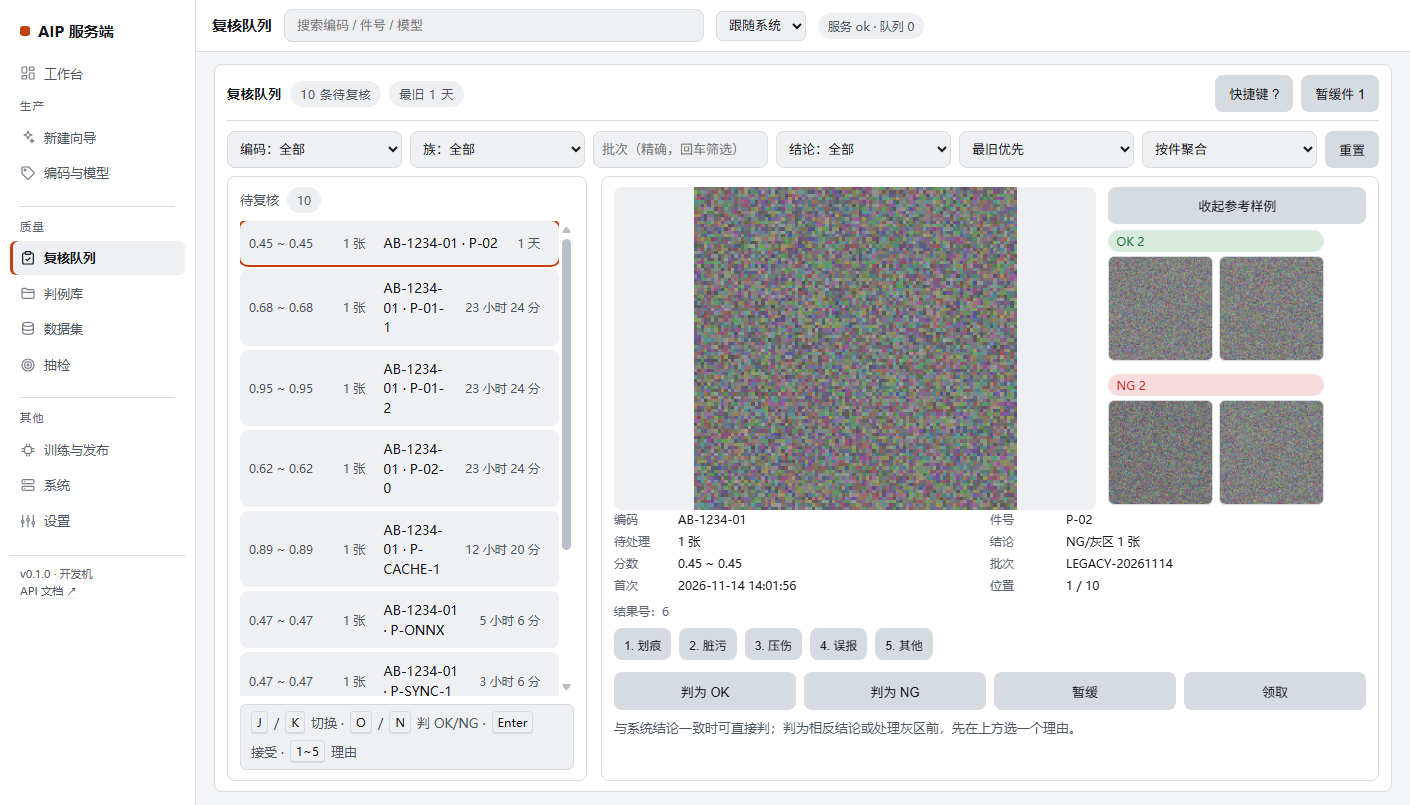
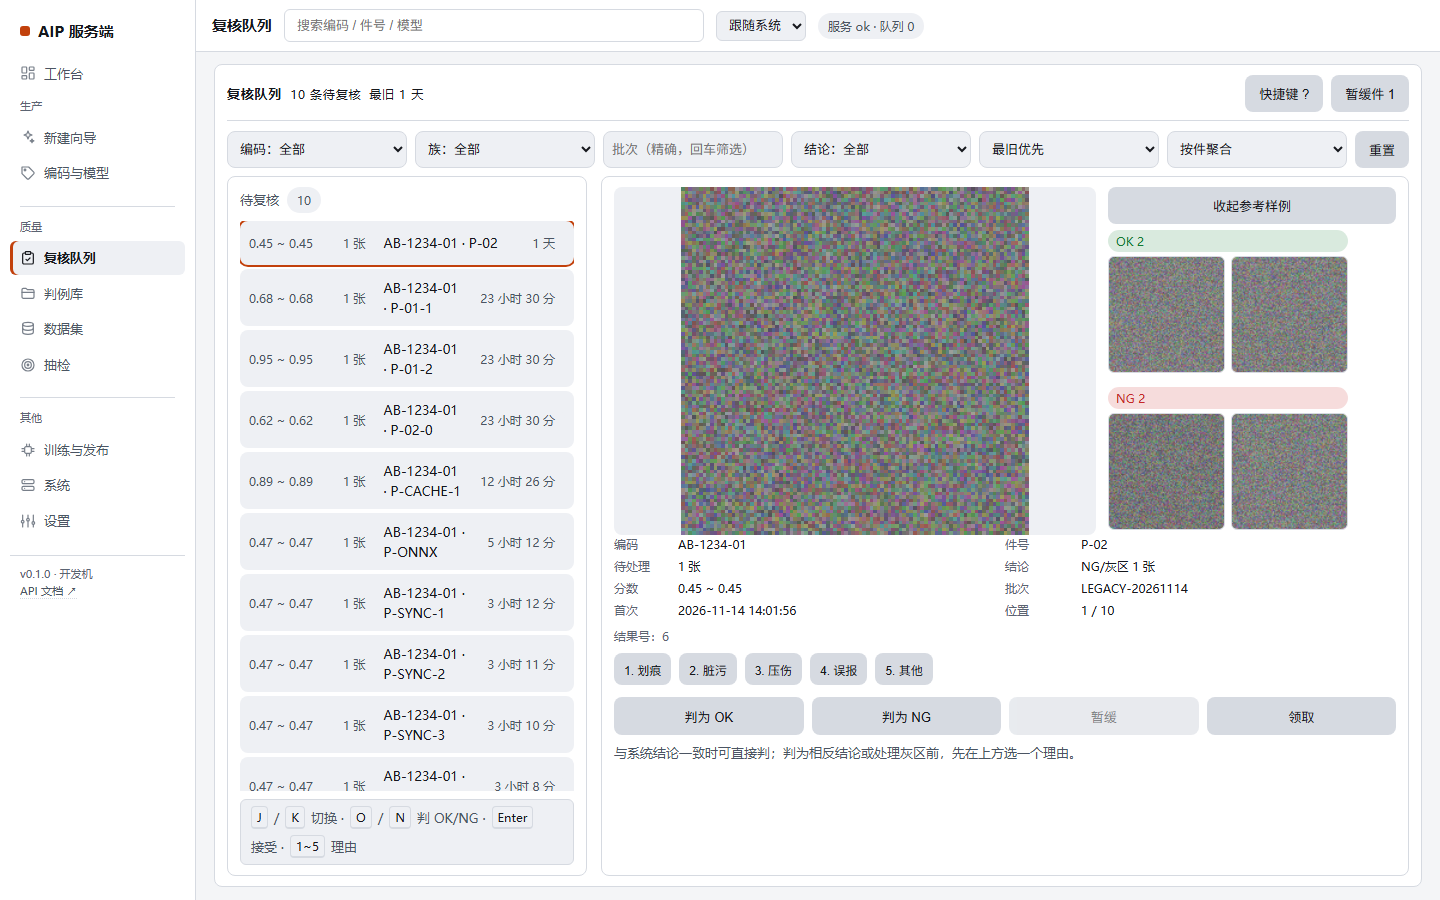
style: Hallmark Reflex 批次（交互态、折行、等宽数字、元信息、下拉层次、标题计数扁平）

diff --git a/aip/web/admin.html b/aip/web/admin.html
@@ -3,6 +3,7 @@
 <head>
 <meta charset="utf-8">
 <meta name="color-scheme" content="light dark">
+<meta name="description" content="AIP 工业表面缺陷检测平台：编码与模型管理、复核队列、数据集与训练发布、抽检与系统运维。">
 <meta name="viewport" content="width=device-width, initial-scale=1">
 <title>AIP 服务端</title>
 <dialog id="keysDlg" style="width:min(520px,92vw)">
@@ -31,7 +32,9 @@
 </script>
 <style>
 /* Hallmark stamp · 2026-11-15 · system: project tokens, no theme dealt · build: restyle (audit follow-up) · critique: dense ops console, structure kept */
-/* waive 56 · .table-wrap thead sticky lives inside its own overflow container, not the page */
+/* waive 56 · thead sticky lives inside .table-wrap, not the page; aside/header sticky in separate grid columns */
+/* waive 24b · 2px spacing grid kept for a dense ops console; 4px baseline where it matters */
+/* waive 38iii · count badges in section heads are data, not accent words */
   :root{
     color-scheme: light dark;
     --brand:#C2410C;
@@ -61,6 +64,9 @@
   html,body{background:var(--g0);overflow-x:clip}
   body{margin:0;color:var(--t1);font:15px/1.5 "Microsoft YaHei",system-ui,sans-serif}
   :focus-visible{outline:3px solid var(--ring);outline-offset:2px;border-radius:6px}
+  button:active,a.ghost:active{transform:translateY(1px)}
+  button:disabled,button[disabled]{opacity:.55;cursor:not-allowed}
+  button:disabled:active{transform:none}
 
   .shell{display:grid;grid-template-columns:196px 1fr;min-height:100vh}
   aside{background:var(--g1);border-right:1px solid var(--g3);padding:14px 10px;position:sticky;top:0;height:100vh;overflow:auto}
@@ -78,10 +84,10 @@
   .side-foot a:hover{color:var(--t1)}
 
   header{display:flex;align-items:center;gap:12px;padding:9px 16px;background:var(--g1);border-bottom:1px solid var(--g3);position:sticky;top:0;z-index:4}
-  header h1{font-size:15px;margin:0;font-weight:600;white-space:nowrap}
+  header h1{font-size:15px;margin:0;font-weight:600;white-space:nowrap;text-wrap:balance}
   .search{flex:1;max-width:420px;position:relative}
   .search-drop{position:absolute;left:0;right:0;top:calc(100% + 6px);z-index:20;background:var(--g1);
-    border:1px solid var(--g3);border-radius:10px;box-shadow:var(--shadow-pop);
+    border:1px solid var(--g3);border-radius:10px;
     padding:6px;max-height:360px;overflow:auto}
   .search-group{padding:6px 8px 2px;font-size:12px;color:var(--t3)}
   .search-item{display:flex;gap:8px;align-items:center;padding:8px 10px;border-radius:8px;cursor:pointer;font-size:13px}
@@ -89,7 +95,7 @@
   .search-item .muted{margin-left:auto}
   .search-keys{padding:6px 8px 2px;margin-top:4px;border-top:1px solid var(--g3);
     font-size:12px;color:var(--t2)}
-  .search input{width:100%;background:var(--g2);border:1px solid var(--g3);color:var(--t1);border-radius:8px;padding:8px 12px;font-size:13px}
+  .search input{width:100%;background:var(--g1);border:1px solid var(--g3);color:var(--t1);border-radius:6px;padding:8px 12px;font-size:13px}
   .theme-sel{background:var(--g2);color:var(--t1);border:1px solid var(--g3);border-radius:6px;padding:4px 8px;font-size:13px;min-height:30px;width:auto;flex:0 0 auto}
   .pill{padding:4px 10px;border-radius:999px;background:var(--g2);color:var(--t2);font-size:12px}
 
@@ -106,8 +112,8 @@
   .card.bad b{color:var(--bad)}
 
   section{background:var(--g1);border:1px solid var(--g3);border-radius:8px;padding:12px}
-  h2{font-size:13px;margin:0 0 10px;color:var(--t1);font-weight:600;display:flex;align-items:center;gap:8px;letter-spacing:.06em;border-bottom:1px solid var(--g3);padding-bottom:8px}
-  h2 .pill{font-weight:400}
+  h2{font-size:13px;margin:0 0 10px;color:var(--t1);font-weight:600;display:flex;align-items:center;gap:8px;text-wrap:balance;letter-spacing:.06em;border-bottom:1px solid var(--g3);padding-bottom:8px}
+  h2 .pill{font-weight:400;color:inherit;background:transparent;border:0;padding:0;font-size:12px}
 
   table{width:100%;border-collapse:collapse;font-size:13px}
   td,th{font-variant-numeric:tabular-nums}
@@ -242,7 +248,7 @@
     border:1px solid var(--g3);background:var(--g2);text-decoration:none;color:inherit}
   .todo-card:hover{border-color:var(--brand)}
   .todo-title{font-size:13px;color:var(--t2)}
-  .todo-count{font-size:28px;line-height:1.1}
+  .todo-count{font-size:28px;line-height:1.1;font-variant-numeric:tabular-nums}
   .todo-card.warn .todo-count{color:var(--warn)}
   .todo-card.bad .todo-count{color:var(--bad)}
   .todo-hint{font-size:12px;color:var(--t3)}

diff --git a/docs/report/hallmark-audit-quality-2026-11-15.md b/docs/report/hallmark-audit-quality-2026-11-15.md
@@ -96,3 +96,27 @@ sloplint 结果：**15 FAIL → 1 FAIL**。
 剩余 1 项：`56 两个 sticky top:0（aside + header）`。这是静态检查的误报——侧栏与顶栏在同一网格的不同列，不重叠；真实运行时二者各自粘住，没有遮挡。已按事实保留，不为了过 linter 改掉可用行为。
 
 67 项 Reflex 与 5 项 WARN（4px 基线、`:active` 态、`text-wrap:balance`、搜索下拉边框+阴影等）属于下一步 polish 批次，不在本次 restyle 范围。
+
+---
+
+## 修复记录（Reflex 批次，2026-11-15）
+
+| 项 | 改动 |
+|---|---|
+| `26b` 交互态 | 全局补 `:active`（1px 位移）与 `:disabled`（55% 不透明度、`not-allowed`） |
+| `F3` 标题折行 | `h1/h2` 加 `text-wrap: balance` |
+| `F6` 数字等宽 | `.todo-count` 加 `tabular-nums` |
+| `F23` 页面元信息 | 补 `<meta name="description">` |
+| `F24` 下拉层次 | 去掉"细边框+宽阴影"并存，保留边框 |
+| `F7` 容器配方 | 搜索框改 `--g1` 底（与表单 `--g2` 底区分角色） |
+| `38iii` 标题强调词 | 标题内 `.pill` 扁平化（去底色/边框，仅作计数） |
+
+sloplint：**FAIL 15 → 1 · REFLEX 67 → 65 · WARN 5 → 1**。
+
+## 豁免记录（写入 CSS stamp）
+
+- `56`：侧栏与顶栏在不同网格列，不重叠；表头 sticky 在自己的滚动容器内。静态检查无法判断列布局。
+- `24b`：密集运维界面保留 2px 间距栅格，关键区间距走 4px 基线。
+- `38iii`：标题里的计数徽标是数据，不是强调词。
+
+剩 1 WARN（`F7` 容器配方仍偏同质）与 65 REFLEX（多为 `24b` 间距栅格）属于全局系统级调整，建议在专门的设计系统梳理里做，不再逐条追。
